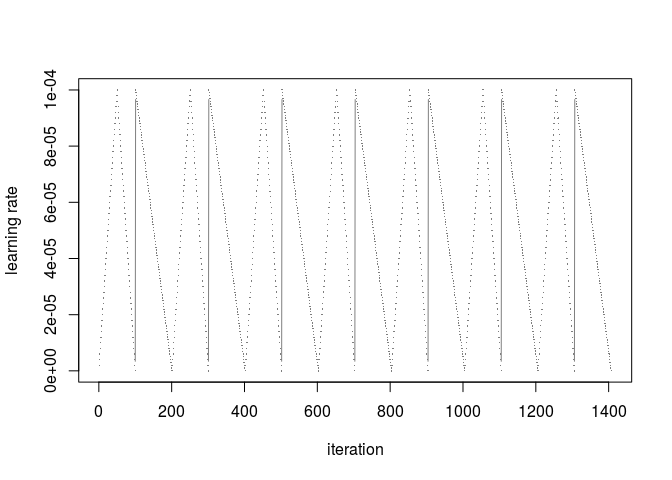
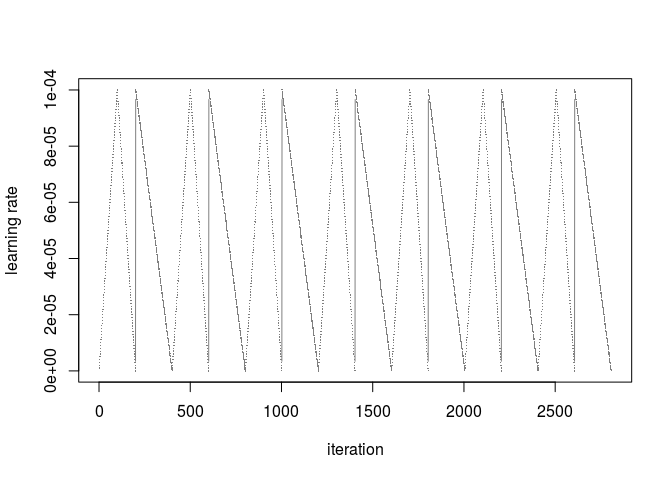
longer epoch, better and smoother results

diff --git a/Fine-tune-layer-4.md b/Fine-tune-layer-4.md
@@ -120,8 +120,8 @@ Plotting to see if it works :
     ## <keras_preprocessing.image.dataframe_iterator.DataFrameIterator>
 
     ## List of 2
-    ##  $ : num [1:4, 1:448, 1:448, 1:3] 32 161 35.8 62 32 ...
-    ##  $ : num [1:4, 1:4] 1 1 0 0 0 0 0 0 0 0 ...
+    ##  $ : num [1:4, 1:448, 1:448, 1:3] 85.2 86.1 120 191.6 57.1 ...
+    ##  $ : num [1:4, 1:4] 0 1 1 1 0 0 0 0 1 0 ...
 
 # Impot pre-trained model
 
@@ -586,17 +586,17 @@ The lr max is set as the one used to train the head of the model,
 divided by 10. Same for the base\_lr.
 
 ``` r
-n=100
+n=200
 nb_epochs=15
 n_iter<-n*nb_epochs
 ```
 
 ``` r
-l_rate_cyclical <- Cyclic_LR(iteration=1:n, base_lr=1e-9, max_lr=(1e-3)/10, step_size=floor(n/2),
+l_rate_cyclical <- Cyclic_LR(iteration=1:n, base_lr=1e-8, max_lr=(1e-3)/10, step_size=floor(n/2),
                         mode='triangular', gamma=1, scale_fn=NULL, scale_mode='cycle')
 
 
-l_rate_cosine_annealing <- Cyclic_LR(iteration=1:n_iter, base_lr=1e-9, max_lr=(1e-3)/10, step_size=floor(n),
+l_rate_cosine_annealing <- Cyclic_LR(iteration=1:n_iter, base_lr=1e-8, max_lr=(1e-3)/10, step_size=floor(n),
                         mode='halfcosine', gamma=1, scale_fn=NULL, scale_mode='cycle')
 
 l_rate_cosine_annealing <- rep(l_rate_cosine_annealing[n:(n*2)])
